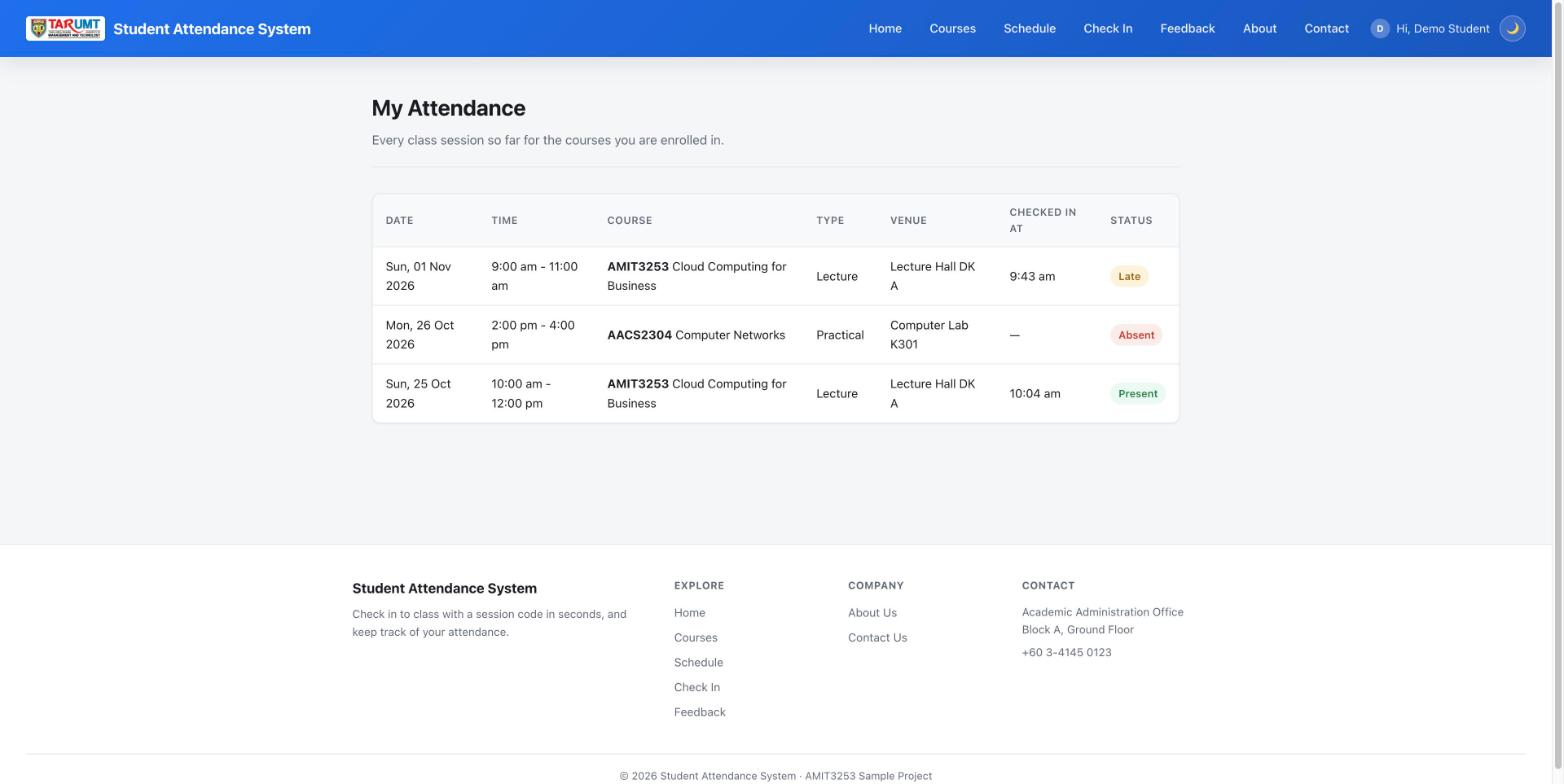
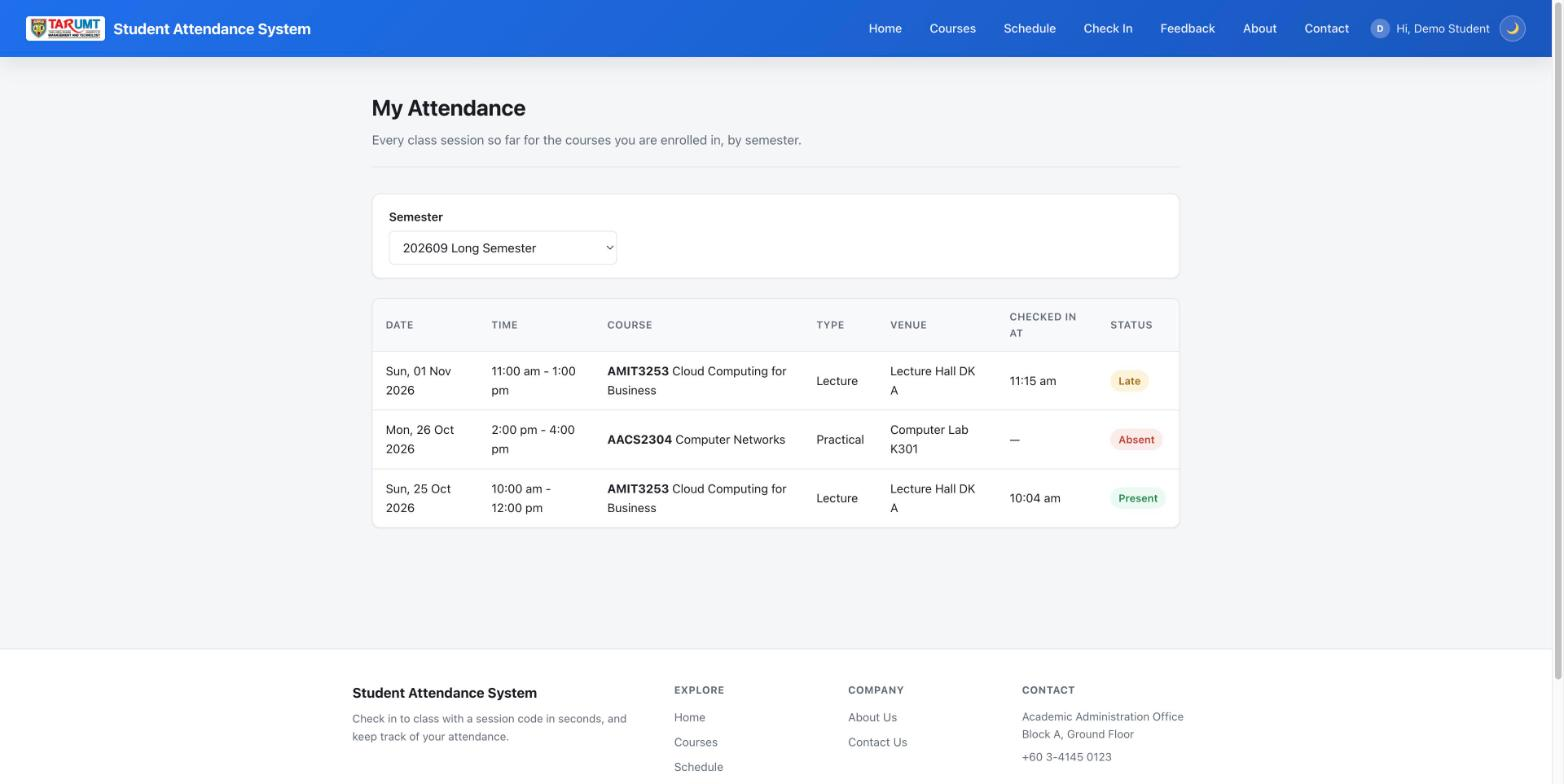
Attendance: refresh README screenshots

diff --git a/student-attendance/README.md b/student-attendance/README.md
@@ -11,7 +11,7 @@ the AWS infrastructure (VPC, EC2, RDS, ELB, ASG) instead of writing app code fro
 *Lecturer's session page — the check-in code to project in class and a live list of who has checked in.*
 
 ![My Attendance](screenshots/my-attendance.jpg)
-*My Attendance — every session so far marked Present, Late or Absent.*
+*My Attendance — every session so far in the chosen semester, marked Present, Late or Absent.*
 
 ## Features
 
